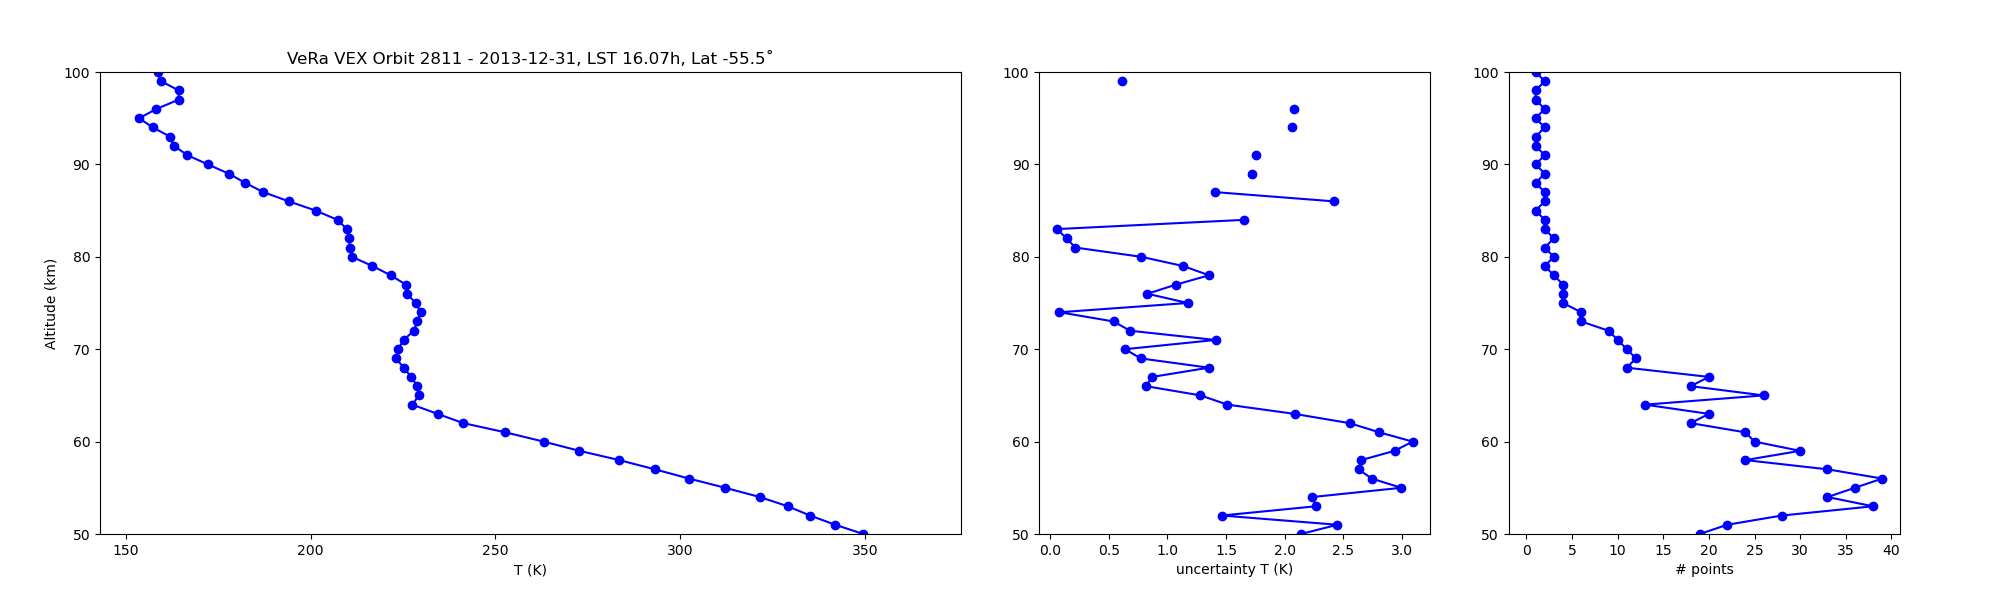
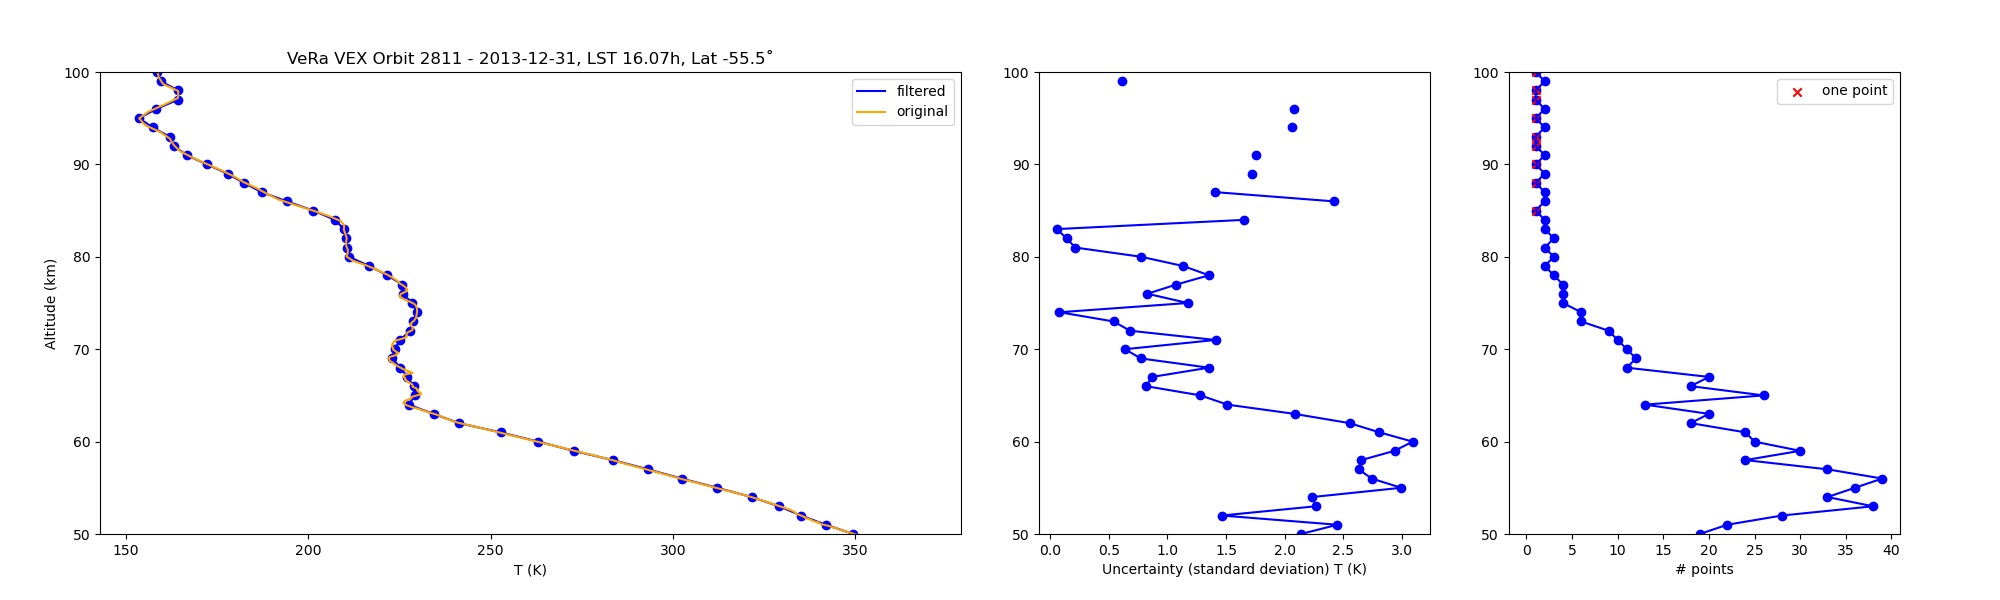
update VeRa Step02

diff --git a/Temperature-UVBrightness-Project/VeRa/Step02/scripts/VeRaAverageProfile_Tz_dTdz_Figure.py b/Temperature-UVBrightness-Project/VeRa/Step02/scripts/VeRaAverageProfile_Tz_dTdz_Figure.py
@@ -1,7 +1,7 @@
 # Author: Maarten Roos-Serote
 # ORCID author: 0000 0001 5001 1347
 
-# Version: v20240722
+# Version: v20240723
 
 
 # Standard imports.
@@ -10,17 +10,28 @@ import matplotlib.pyplot as plt
 from HandyTools import HandyTools
 
 
-# # The TAB file path and name.
-# VeRaProfileTABFileName = '../../../../Data/VEX/VeRa/VeRa_Spole_2013/Orb2805/V32ICL2L04_AEX_133590806_60.TAB'
-# 
-# # Get the filtered profile.
-# VeRaFilteredProfile = VeRaTools.getFilteredVeRaProfile (VeRaProfileTABFileName)
-
 VeRaProfiles = np.load ('../VeRaSouthPolarDynamicsCampaignProfiles.profiles', allow_pickle = True).tolist ()
+# The   VeRaSouthPolarDynamicsCampaignProfiles.profiles   is created by the  VeRaAverageProfiles_CreateNumpyArray.py  script.
+#     VeRaProfiles = {
+#      'OrbitID' : [],
+#      'ProfileID' : [],
+#      'LatitudeOneBar' : [],
+#      'LongitudeOneBar' : [],
+#      'DayOfYear' : [],
+#      'TimeOfDay' : [],
+#      'LocalSolarTime' : [],
+#      'FilteredProfiles' : [],
+#      'NumberOfFilteredLevels' : [],
+#      'OriginalProfiles' : [],
+#      'NumberOfOriginalLevels' : []
+#       }
+
+# Each element of 'OriginalProfiles' is a list of seven lists (see the description of  VeRaTools.readVeRaTAB ), 
+#  with index 0 and 1 the radius and temperature respectively.
 
 iProfile = -1
 VeRaFilteredProfile = VeRaProfiles ['FilteredProfiles'][iProfile]
-
+VeraOriginalProfile = VeRaProfiles ['OriginalProfiles'][iProfile]
 
 
 figure = plt.figure (1)
@@ -35,24 +46,29 @@ axis3 = plt.subplot2grid ( shape = (1, 4), loc = (0, 3), colspan = 1 )
 
 
 # The radius of Venus = 6051.8km, hence 6098km ~ 48km altitude
-
-
+# Left plot: filtered temperature profile example between 50-100km. Unfiltered profile in red.
 axis1.scatter ( VeRaFilteredProfile [1], VeRaFilteredProfile [0] - 6098 + 48, marker = 'o', c = 'blue' )
-axis1.plot ( VeRaFilteredProfile [1], VeRaFilteredProfile [0] - 6098 + 48, c = 'blue' )
+axis1.plot ( VeRaFilteredProfile [1], VeRaFilteredProfile [0] - 6098 + 48, c = 'blue', label = 'filtered' )
+axis1.plot ( VeraOriginalProfile [1], VeraOriginalProfile [0] - 6098 + 48, c = 'orange', label = 'original' )
+axis1.legend ()
+
 axis1.set_ylim (50,100)
 axis1.set_xlabel ('T (K)')
 axis1.set_ylabel ('Altitude (km)')
 axis1.set_title ( 'VeRa VEX Orbit {} - {}, LST {}h, Lat {}˚'.format ( VeRaProfiles ['OrbitID'][iProfile],  VeRaProfiles ['DayOfYear'][iProfile], VeRaProfiles ['LocalSolarTime'][iProfile], VeRaProfiles ['LatitudeOneBar'][iProfile] ) )
 
-
+# Middle plot: The uncertainty in the average values in the filtered 
 axis2.scatter ( VeRaFilteredProfile [2], VeRaFilteredProfile [0] - 6098 + 48, marker = 'o', c = 'blue' )
 axis2.plot ( VeRaFilteredProfile [2], VeRaFilteredProfile [0] - 6098 + 48, c = 'blue' )
 axis2.set_ylim (50,100)
-axis2.set_xlabel ('uncertainty T (K)')
+axis2.set_xlabel ('Uncertainty (standard deviation) T (K)')
 
-
+# Right plot: 
 axis3.scatter ( VeRaFilteredProfile [9], VeRaFilteredProfile [0] - 6098 + 48, marker = 'o', c = 'blue' )
-axis3.plot ( VeRaFilteredProfile [9], VeRaFilteredProfile [0] - 6098 + 48, c = 'blue' )
+iOne = np.where ( VeRaFilteredProfile [9] == 1 )[0]
+axis3.scatter ( VeRaFilteredProfile [9][iOne], VeRaFilteredProfile [0][iOne] - 6098 + 48, marker = 'x', c = 'red', label = 'one point' )
+axis3.plot ( VeRaFilteredProfile [9], VeRaFilteredProfile [0] - 6098 + 48, c = 'blue')
+axis3.legend ()
 axis3.set_ylim (50,100)
 axis3.set_xlabel ('# points')
 
@@ -62,36 +78,36 @@ figure.savefig ( '../plots/VeRaProfiles_Orb{}_T-z_Figure.png'.format ( VeRaProfi
 plt.close (figure)
 
 
-# plt.figure (2)
-# plt.clf ()
-# 
-# # Calculate the adiabatic lapse rate is from Fig. 18 from Seiff et al. 1980, which I measured and parametrized between 200 and 350K
-# # T1 = 200 K, -gamma1 = 11.6 + 9/14.5 * 0.4 K/km
-# # T2 = 250 K, -gamma2 = 10.8 + 5/14.5 * 0.4 K/km
-# # T3 = 350 K, -gamma3 = 9.6 + 6.7 / 14.5 * 0.4 K/km
-# gamma1 = 11.6 + (9/14.5) * 0.4 
-# gamma2 = 10.8 + (5/14.5) * 0.4
-# gamma3 =  9.6 + (6.7/14.5) * 0.4
-# 
-# gamma = []
-# for iLevel in range (VeRaProfiles ['NumberOfFilteredLevels'][iProfile]):
-# 
-#     if VeRaFilteredProfile [1][iLevel] < 250:
-#     
-#         gamma.append ( gamma1 + (VeRaFilteredProfile [1][iLevel] - 200.) * (gamma2 - gamma1) / (250. - 200.) )
-# 
-#     else:
-#     
-#         gamma.append ( gamma2 + (VeRaFilteredProfile [1][iLevel] - 250.) * (gamma3 - gamma2) / (350. - 250.) )
-# 
-#                 
-# plt.scatter ( VeRaFilteredProfile [7] + gamma, VeRaFilteredProfile [0] - 6098 + 48, marker = 'o', c = 'blue' )
-# plt.plot ( VeRaFilteredProfile [7] + gamma, VeRaFilteredProfile [0] - 6098 + 48, c = 'blue' )
-# plt.ylim (50,100)
-# plt.xlabel ('Static stability (K/km)')
-# plt.ylabel ('Altitude (km)')
-# plt.title ( 'VeRa VEX Orbit {} - {}, LST {}h, Lat {}˚'.format ( VeRaProfiles ['OrbitID'][iProfile],  VeRaProfiles ['DayOfYear'][iProfile], VeRaProfiles ['LocalSolarTime'][iProfile], VeRaProfiles ['LatitudeOneBar'][iProfile] ) )
-# plt.savefig ( '../plots/VeRaProfiles_Orb{}_dTdz-z_Figure.png'.format ( VeRaProfiles ['OrbitID'][iProfile] ) )
-# 
-# plt.close ()
+plt.figure (2)
+plt.clf ()
+
+# Calculate the adiabatic lapse rate is from Fig. 18 from Seiff et al. 1980, which I measured and parametrized between 200 and 350K
+# T1 = 200 K, -gamma1 = 11.6 + 9/14.5 * 0.4 K/km
+# T2 = 250 K, -gamma2 = 10.8 + 5/14.5 * 0.4 K/km
+# T3 = 350 K, -gamma3 = 9.6 + 6.7 / 14.5 * 0.4 K/km
+gamma1 = 11.6 + (9/14.5) * 0.4 
+gamma2 = 10.8 + (5/14.5) * 0.4
+gamma3 =  9.6 + (6.7/14.5) * 0.4
+
+gamma = []
+for iLevel in range (VeRaProfiles ['NumberOfFilteredLevels'][iProfile]):
+
+    if VeRaFilteredProfile [1][iLevel] < 250:
+    
+        gamma.append ( gamma1 + (VeRaFilteredProfile [1][iLevel] - 200.) * (gamma2 - gamma1) / (250. - 200.) )
+
+    else:
+    
+        gamma.append ( gamma2 + (VeRaFilteredProfile [1][iLevel] - 250.) * (gamma3 - gamma2) / (350. - 250.) )
+
+                
+plt.scatter ( VeRaFilteredProfile [7] + gamma, VeRaFilteredProfile [0] - 6098 + 48, marker = 'o', c = 'blue' )
+plt.plot ( VeRaFilteredProfile [7] + gamma, VeRaFilteredProfile [0] - 6098 + 48, c = 'blue' )
+plt.ylim (50,100)
+plt.xlabel ('Static stability (K/km)')
+plt.ylabel ('Altitude (km)')
+plt.title ( 'VeRa VEX Orbit {} - {}, LST {}h, Lat {}˚'.format ( VeRaProfiles ['OrbitID'][iProfile],  VeRaProfiles ['DayOfYear'][iProfile], VeRaProfiles ['LocalSolarTime'][iProfile], VeRaProfiles ['LatitudeOneBar'][iProfile] ) )
+plt.savefig ( '../plots/VeRaProfiles_Orb{}_dTdz-z_Figure.png'.format ( VeRaProfiles ['OrbitID'][iProfile] ) )
+
+plt.close ()
     
